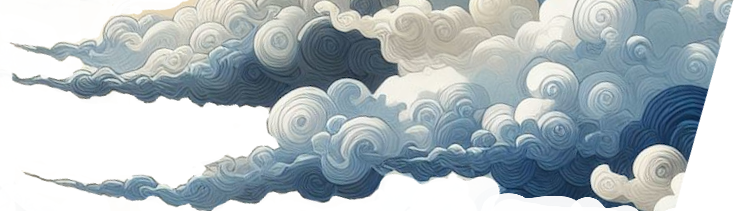
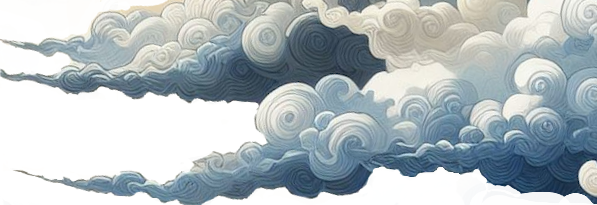
adding some modfifcation on the header

diff --git a/public/css/style.css b/public/css/style.css
@@ -9,6 +9,7 @@ body{
     background-image: linear-gradient(#00BEE0,rgb(2, 2, 2) );
     background-repeat: no-repeat;
     min-height: 100vh;
+    max-width: 100vw;
 }
 nav{
     display: flex;
@@ -87,8 +88,8 @@ header:hover{
     position: absolute;
     z-index: 1;
     width: 80vw;
-    bottom: 33vw;
-    right: 33vw;
+    bottom: 31vw;
+    right: 30vw;
   /*  animation: cloud1 1s  forwards; */
    
 }
@@ -98,8 +99,8 @@ header:hover{
     position: absolute;
     z-index: 3;
     width: 80vw;
-    bottom: 66vh;
-    left: 27vw;
+    bottom: 64vh;
+    left: 24vw;
  /* animation: cloud2 1s ease  forwards;*/
 
 }
@@ -134,19 +135,22 @@ header:hover{
         transform: translateX(0vw);
     }
     100% {
-        transform: translateX(-50vw);
+        transform: translateX(-60vw);
     }
 }
 
 @keyframes cloud2 {
-    to {
-        transform: translateX(50vw);
+    0% {
+        transform: translateX(0vw);
+    }
+    100% {
+        transform: translateX(65vw);
     }
 }
 
 @keyframes cloud1Reverse {
     0% {
-        transform: translateX(-50vw);
+        transform: translateX(-60vw);
     }
     100% {
         transform: translateX(0vw);
@@ -155,7 +159,7 @@ header:hover{
 
 @keyframes cloud2Reverse {
     from {
-        transform: translateX(50vw);
+        transform: translateX(60vw);
     }
     to {
         transform: translateX(0vw);

diff --git a/public/js/script.js b/public/js/script.js
@@ -31,7 +31,7 @@ document.addEventListener("DOMContentLoaded", function() {
 document.addEventListener("DOMContentLoaded", function() {
   
     
-    const topAreaHeight = 300; // Hauteur de la zone en pixels
+    const topAreaHeight = 350; // Hauteur de la zone en pixels
     const effectElement = document.createElement('div');
 
     effectElement.classList.add('top-area-effect');
